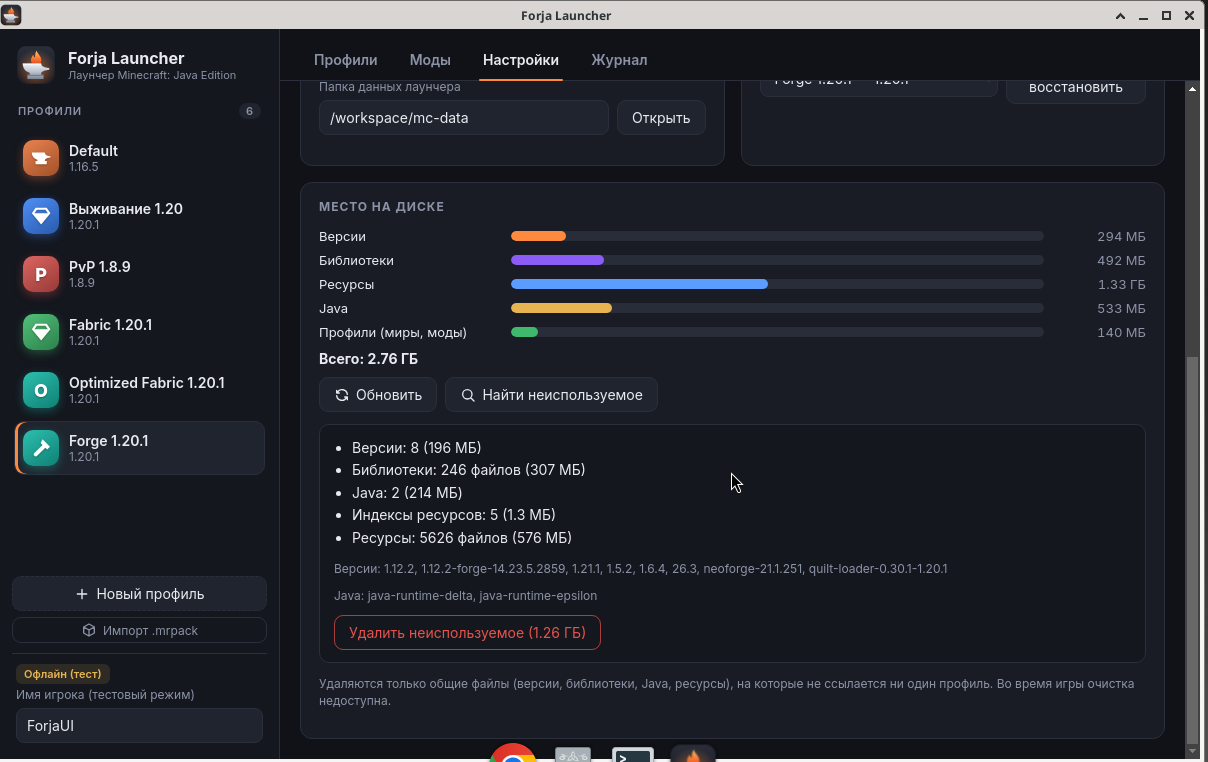
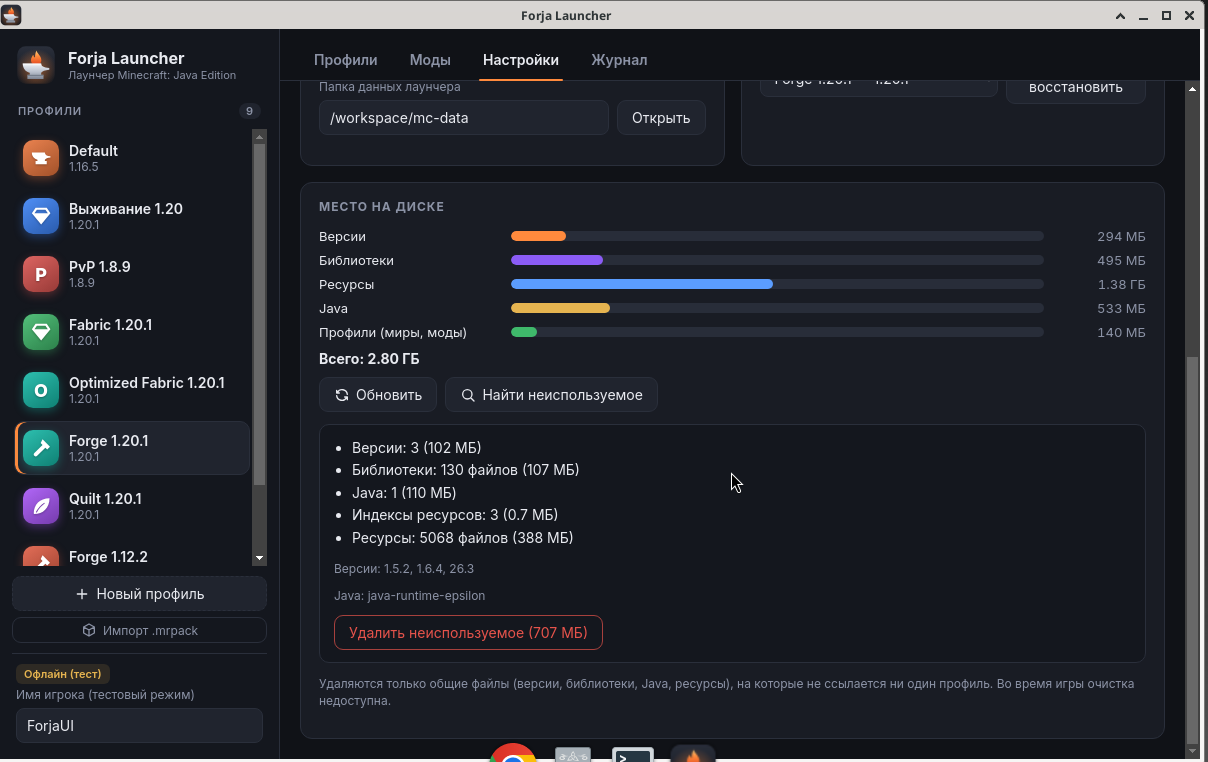
repairProfile shared by UI and scripts/verify-profiles.js; Forge/NeoForge extraFiles only record files that exist

diff --git a/src/main/main.js b/src/main/main.js
@@ -11,10 +11,10 @@ const { GameManager } = require('./core/games');
 const { ProfileStore, ICON_PRESETS, COLORS } = require('./core/profiles');
 const { Settings, totalMemoryMb } = require('./core/settings');
 const { sweepStaleNativesDirs } = require('./core/natives');
-const { repairVersion } = require('./core/repair');
+const { repairProfile } = require('./core/repair');
 const { classifyError } = require('./core/errors');
 const { createSession, providers } = require('./auth');
-const { listLoaderVersions, ensureLoader, LoaderRegistry, LOADER_TYPES } = require('./core/loaders');
+const { listLoaderVersions, LoaderRegistry, LOADER_TYPES } = require('./core/loaders');
 const { ModrinthClient, primaryFile, loadersFor, CONTENT_TYPES } = require('./core/modrinth');
 const content = require('./core/content');
 const { installMrpack } = require('./core/mrpack');
@@ -211,29 +211,10 @@ handle('profile:repair', async (profileId) => {
   send('game:state', { profileId, state: 'repairing' });
   try {
     const s = settings.get();
-    let versionId = profile.versionId;
-    if (profile.loader && profile.loader.type !== 'vanilla') {
-      const { installVersion } = require('./core/install');
-      const { ensureJava } = require('./core/java');
-      const onLog = (line) => games.pushLog(profileId, line, 'launcher');
-      const res = await ensureLoader({
-        layout, loader: profile.loader, mcVersion: profile.versionId, signal: controller.signal, onLog, concurrency: s.concurrency,
-        onProgress: (p) => send('game:progress', { profileId, ...p }),
-        prepareVanilla: async () => {
-          const v = await installVersion({ layout, versionId: profile.versionId, gameDir: profile.gameDir, signal: controller.signal, onLog, concurrency: s.concurrency });
-          const javaPath = profile.java.mode === 'custom' ? profile.java.path
-            : (await ensureJava({ layout, version: v.version, signal: controller.signal, onLog, concurrency: s.concurrency })).javaPath;
-          return { clientJar: v.clientJar, javaPath };
-        },
-      });
-      versionId = res.versionId;
-    }
-    const result = await repairVersion({
+    const result = await repairProfile({
       layout,
-      versionId,
-      gameDir: profile.gameDir,
+      profile,
       concurrency: s.concurrency,
-      skipJava: profile.java.mode === 'custom',
       signal: controller.signal,
       onProgress: (p) => send('game:progress', { profileId, ...p }),
       onLog: (line) => games.pushLog(profileId, line, 'launcher'),

diff --git a/scripts/verify-profiles.js b/scripts/verify-profiles.js
@@ -1,0 +1,38 @@
+#!/usr/bin/env node
+'use strict';
+/**
+ * Verify every profile without starting the game: installs the profile's
+ * loader if needed and re-checks all version files, libraries, assets and
+ * Java by SHA1 (the same code as "Проверить и восстановить").
+ * A non-zero "repaired" count means files were missing/corrupted and were
+ * re-downloaded — after a storage cleanup it must be 0 for every profile.
+ *
+ *   node scripts/verify-profiles.js [--data DIR] [--profile ID]
+ */
+const { createLayout } = require('../src/main/core/paths');
+const { ProfileStore } = require('../src/main/core/profiles');
+const { repairProfile } = require('../src/main/core/repair');
+
+async function main() {
+  const argv = process.argv.slice(2);
+  const opt = (name) => { const i = argv.indexOf(name); return i === -1 ? null : argv[i + 1]; };
+  const layout = createLayout(opt('--data') || undefined);
+  const store = new ProfileStore(layout);
+  const only = opt('--profile');
+  const list = store.list().filter((p) => p.versionId && (!only || p.id === only));
+  let bad = 0;
+  for (const profile of list) {
+    const label = `${profile.name} [${profile.versionId}${profile.loader.type !== 'vanilla' ? ` ${profile.loader.type} ${profile.loader.version || 'latest'}` : ''}]`;
+    try {
+      const r = await repairProfile({ layout, profile, concurrency: 8, onLog: () => {} });
+      console.log(`${r.repaired ? 'REPAIRED' : 'OK      '} ${label}: version ${r.versionId}, checked ${r.checked} files, re-downloaded ${r.repaired} (${r.repairedBytes} B), ${r.ms} ms`);
+      if (r.repaired) bad++;
+    } catch (err) {
+      bad++;
+      console.log(`FAILED   ${label}: ${err.code || ''} ${err.message}`);
+    }
+  }
+  process.exitCode = bad ? 1 : 0;
+}
+
+main().catch((e) => { console.error(e); process.exit(2); });

diff --git a/src/main/core/repair.js b/src/main/core/repair.js
@@ -23,4 +23,29 @@ async function repairVersion({ layout, versionId, gameDir, signal, onProgress, o
   };
 }
 
-module.exports = { repairVersion };
+/**
+ * Repair a whole profile: make sure its mod loader (if any) is installed,
+ * then verify the resulting version chain like repairVersion.
+ */
+async function repairProfile({ layout, profile, signal, onProgress, onLog, concurrency = 12 }) {
+  let versionId = profile.versionId;
+  if (profile.loader && profile.loader.type !== 'vanilla') {
+    const { ensureLoader } = require('./loaders');
+    const res = await ensureLoader({
+      layout, loader: profile.loader, mcVersion: profile.versionId, signal, onLog, onProgress, concurrency,
+      prepareVanilla: async () => {
+        const v = await installVersion({ layout, versionId: profile.versionId, gameDir: profile.gameDir, signal, onLog, concurrency });
+        const javaPath = profile.java && profile.java.mode === 'custom' ? profile.java.path
+          : (await ensureJava({ layout, version: v.version, signal, onLog, concurrency })).javaPath;
+        return { clientJar: v.clientJar, javaPath };
+      },
+    });
+    versionId = res.versionId;
+  }
+  return repairVersion({
+    layout, versionId, gameDir: profile.gameDir, concurrency, signal, onProgress, onLog,
+    skipJava: Boolean(profile.java && profile.java.mode === 'custom'),
+  });
+}
+
+module.exports = { repairVersion, repairProfile };

diff --git a/src/main/core/loaders/forge.js b/src/main/core/loaders/forge.js
@@ -353,7 +353,10 @@ async function install({ flavor, layout, full, mcVersion, minecraftJar, javaPath
       const raw = sides && typeof sides === 'object' ? sides.client : sides;
       if (typeof raw === 'string' && raw.startsWith('[') && raw.endsWith(']')) extraFiles.add(mavenPath(raw.slice(1, -1)));
     }
-    return { versionId: id, extraFiles: [...extraFiles] };
+    // Only record files that really exist: some `data` entries are produced only
+    // by server-side processors (e.g. MC_UNPACKED) and never appear on a client.
+    const present = [...extraFiles].filter((rel) => fs.existsSync(path.join(layout.libraries, ...rel.split('/'))));
+    return { versionId: id, extraFiles: present };
   } finally {
     await fsp.rm(tmp, { recursive: true, force: true }).catch(() => {});
   }
